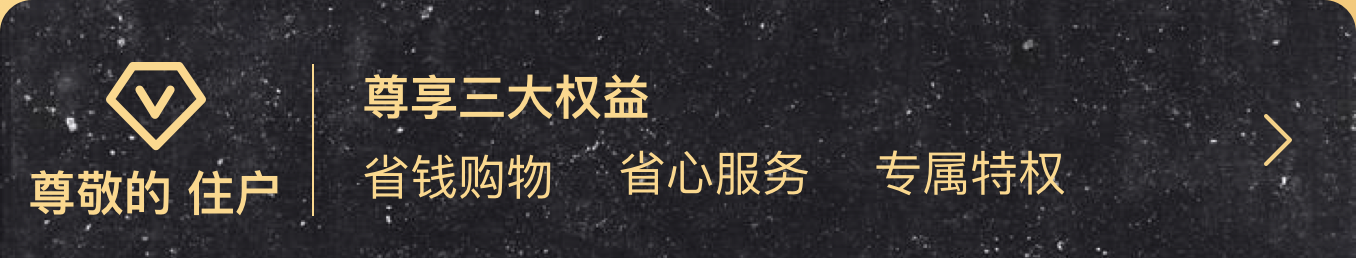
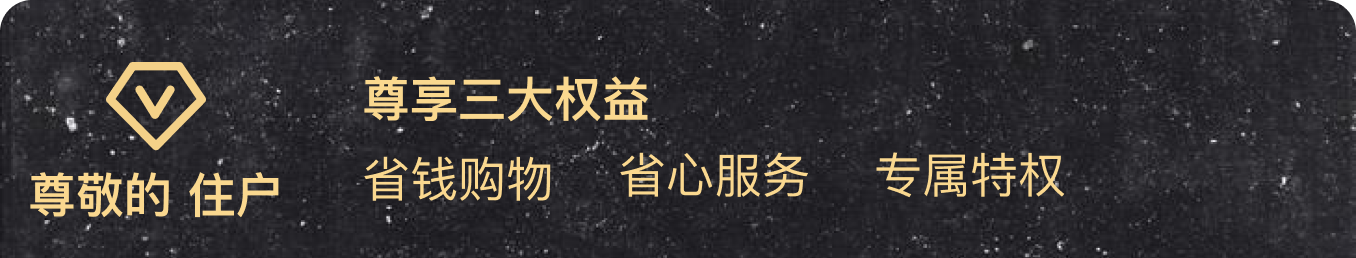
remove example image asset, replace member bg image

diff --git a/lib/const/resource.dart b/lib/const/resource.dart
@@ -103,105 +103,6 @@ class R {
   static const String ASSETS_APPLICATIONS_WINE_PNG =
       'assets/applications/wine.png';
 
-  /// ![preview](file:///Users/akufe/Documents/akuCommunity/assets/example/QR_code.png)
-  static const String ASSETS_EXAMPLE_QR_CODE_PNG = 'assets/example/QR_code.png';
-
-  /// ![preview](file:///Users/akufe/Documents/akuCommunity/assets/example/bg1.png)
-  static const String ASSETS_EXAMPLE_BG1_PNG = 'assets/example/bg1.png';
-
-  /// ![preview](file:///Users/akufe/Documents/akuCommunity/assets/example/bg2.png)
-  static const String ASSETS_EXAMPLE_BG2_PNG = 'assets/example/bg2.png';
-
-  /// ![preview](file:///Users/akufe/Documents/akuCommunity/assets/example/bg3.png)
-  static const String ASSETS_EXAMPLE_BG3_PNG = 'assets/example/bg3.png';
-
-  /// ![preview](file:///Users/akufe/Documents/akuCommunity/assets/example/bg4.png)
-  static const String ASSETS_EXAMPLE_BG4_PNG = 'assets/example/bg4.png';
-
-  /// ![preview](file:///Users/akufe/Documents/akuCommunity/assets/example/good.png)
-  static const String ASSETS_EXAMPLE_GOOD_PNG = 'assets/example/good.png';
-
-  /// ![preview](file:///Users/akufe/Documents/akuCommunity/assets/example/guanggao1.png)
-  static const String ASSETS_EXAMPLE_GUANGGAO1_PNG =
-      'assets/example/guanggao1.png';
-
-  /// ![preview](file:///Users/akufe/Documents/akuCommunity/assets/example/guanggao2.png)
-  static const String ASSETS_EXAMPLE_GUANGGAO2_PNG =
-      'assets/example/guanggao2.png';
-
-  /// ![preview](file:///Users/akufe/Documents/akuCommunity/assets/example/guanggao3.png)
-  static const String ASSETS_EXAMPLE_GUANGGAO3_PNG =
-      'assets/example/guanggao3.png';
-
-  /// ![preview](file:///Users/akufe/Documents/akuCommunity/assets/example/guanggao4.png)
-  static const String ASSETS_EXAMPLE_GUANGGAO4_PNG =
-      'assets/example/guanggao4.png';
-
-  /// ![preview](file:///Users/akufe/Documents/akuCommunity/assets/example/guanggao5.png)
-  static const String ASSETS_EXAMPLE_GUANGGAO5_PNG =
-      'assets/example/guanggao5.png';
-
-  /// ![preview](file:///Users/akufe/Documents/akuCommunity/assets/example/guanggao6.png)
-  static const String ASSETS_EXAMPLE_GUANGGAO6_PNG =
-      'assets/example/guanggao6.png';
-
-  /// ![preview](file:///Users/akufe/Documents/akuCommunity/assets/example/guanggao7.png)
-  static const String ASSETS_EXAMPLE_GUANGGAO7_PNG =
-      'assets/example/guanggao7.png';
-
-  /// ![preview](file:///Users/akufe/Documents/akuCommunity/assets/example/header.png)
-  static const String ASSETS_EXAMPLE_HEADER_PNG = 'assets/example/header.png';
-
-  /// ![preview](file:///Users/akufe/Documents/akuCommunity/assets/example/jiaoshijie.png)
-  static const String ASSETS_EXAMPLE_JIAOSHIJIE_PNG =
-      'assets/example/jiaoshijie.png';
-
-  /// ![preview](file:///Users/akufe/Documents/akuCommunity/assets/example/kuzi.png)
-  static const String ASSETS_EXAMPLE_KUZI_PNG = 'assets/example/kuzi.png';
-
-  /// ![preview](file:///Users/akufe/Documents/akuCommunity/assets/example/mine_header.png)
-  static const String ASSETS_EXAMPLE_MINE_HEADER_PNG =
-      'assets/example/mine_header.png';
-
-  /// ![preview](file:///Users/akufe/Documents/akuCommunity/assets/example/topic1.png)
-  static const String ASSETS_EXAMPLE_TOPIC1_PNG = 'assets/example/topic1.png';
-
-  /// ![preview](file:///Users/akufe/Documents/akuCommunity/assets/example/topic2.png)
-  static const String ASSETS_EXAMPLE_TOPIC2_PNG = 'assets/example/topic2.png';
-
-  /// ![preview](file:///Users/akufe/Documents/akuCommunity/assets/example/topic3.png)
-  static const String ASSETS_EXAMPLE_TOPIC3_PNG = 'assets/example/topic3.png';
-
-  /// ![preview](file:///Users/akufe/Documents/akuCommunity/assets/example/touxiang1.png)
-  static const String ASSETS_EXAMPLE_TOUXIANG1_PNG =
-      'assets/example/touxiang1.png';
-
-  /// ![preview](file:///Users/akufe/Documents/akuCommunity/assets/example/touxiang2.png)
-  static const String ASSETS_EXAMPLE_TOUXIANG2_PNG =
-      'assets/example/touxiang2.png';
-
-  /// ![preview](file:///Users/akufe/Documents/akuCommunity/assets/example/touxiang3.jpeg)
-  static const String ASSETS_EXAMPLE_TOUXIANG3_JPEG =
-      'assets/example/touxiang3.jpeg';
-
-  /// ![preview](file:///Users/akufe/Documents/akuCommunity/assets/example/tz1.png)
-  static const String ASSETS_EXAMPLE_TZ1_PNG = 'assets/example/tz1.png';
-
-  /// ![preview](file:///Users/akufe/Documents/akuCommunity/assets/example/tz2.png)
-  static const String ASSETS_EXAMPLE_TZ2_PNG = 'assets/example/tz2.png';
-
-  /// ![preview](file:///Users/akufe/Documents/akuCommunity/assets/example/tz3.png)
-  static const String ASSETS_EXAMPLE_TZ3_PNG = 'assets/example/tz3.png';
-
-  /// ![preview](file:///Users/akufe/Documents/akuCommunity/assets/example/xiezi.png)
-  static const String ASSETS_EXAMPLE_XIEZI_PNG = 'assets/example/xiezi.png';
-
-  /// ![preview](file:///Users/akufe/Documents/akuCommunity/assets/example/yifu.png)
-  static const String ASSETS_EXAMPLE_YIFU_PNG = 'assets/example/yifu.png';
-
-  /// ![preview](file:///Users/akufe/Documents/akuCommunity/assets/example/yifu1.png)
-  static const String ASSETS_EXAMPLE_YIFU1_PNG = 'assets/example/yifu1.png';
-
   /// ![preview](file:///Users/akufe/Documents/akuCommunity/assets/icons/add.png)
   static const String ASSETS_ICONS_ADD_PNG = 'assets/icons/add.png';
 
